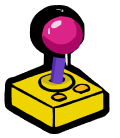
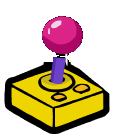
Make joystick static and remove black shadow overlay

Changed region(s): [[0.225, 0.029, 0.725, 0.4638], [0.5, 0.3768, 0.6, 0.4638], [0.625, 0.3478, 0.65, 0.3768]]

diff --git a/apps/web/app/components/AboutUs/Arcadeaccessories.tsx b/apps/web/app/components/AboutUs/Arcadeaccessories.tsx
@@ -1,6 +1,3 @@
-"use client";
-
-import { useRef, useState } from "react";
 import Image from "next/image";
 import styles from "./AboutSection.module.css";
 
@@ -9,33 +6,6 @@ const CASSETTE_SRC = "/about/cassette-bar.png";
 const WIRE_SRC = "/about/wire.png";
 
 export default function ArcadeAccessories() {
-    const joystickRef = useRef<HTMLDivElement>(null);
-    const [joystickTilt, setJoystickTilt] = useState({ rotateZ: 0, rotateX: 0 });
-
-    function handleJoystickMove(e: React.MouseEvent<HTMLDivElement>) {
-        const el = joystickRef.current;
-        if (!el) return;
-
-        const rect = el.getBoundingClientRect();
-        const cx = rect.left + rect.width / 2;
-        const cy = rect.top + rect.height * 0.35;
-
-        const dx = e.clientX - cx;
-        const dy = e.clientY - cy;
-
-        const clampedDx = Math.max(-1, Math.min(1, dx / (rect.width / 2)));
-        const clampedDy = Math.max(-1, Math.min(1, dy / (rect.height / 2)));
-
-        setJoystickTilt({
-            rotateZ: clampedDx * 12,
-            rotateX: -clampedDy * 8,
-        });
-    }
-
-    function handleJoystickLeave() {
-        setJoystickTilt({ rotateZ: 0, rotateX: 0 });
-    }
-
     return (
         <>
             <div className={styles.cassetteWrap}>
@@ -46,21 +16,8 @@ export default function ArcadeAccessories() {
                 <Image src={WIRE_SRC} alt="" fill className={styles.fitImg} unoptimized />
             </div>
 
-            <div
-                ref={joystickRef}
-                className={styles.joystickWrap}
-                onMouseMove={handleJoystickMove}
-                onMouseLeave={handleJoystickLeave}
-            >
-                <div
-                    className={styles.joystickTiltInner}
-                    style={{
-                        transform: `perspective(600px) rotateX(${joystickTilt.rotateX}deg) rotateZ(${joystickTilt.rotateZ}deg)`,
-                        transformOrigin: "50% 88%",
-                    }}
-                >
-                    <Image src={JOYSTICK_SRC} alt="" fill className={styles.fitImg} />
-                </div>
+            <div className={styles.joystickWrap}>
+                <Image src={JOYSTICK_SRC} alt="" fill className={styles.fitImg} />
             </div>
         </>
     );

diff --git a/apps/web/app/components/AboutUs/AboutSection.module.css b/apps/web/app/components/AboutUs/AboutSection.module.css
@@ -236,7 +236,7 @@
     top: 72.2%;
     width: 22%;
     height: 6.8%;
-    z-index: 4;
+    z-index: 5;
 }
 
 .wireWrap {
@@ -256,13 +256,6 @@
     width: 9%;
     height: 15%;
     z-index: 4;
-}
-
-.joystickTiltInner {
-    position: absolute;
-    inset: 0;
-    transition: transform 0.35s cubic-bezier(0.22, 1, 0.36, 1);
-    transform-origin: 50% 88%;
 }
 
 .pacmanOverlay {
@@ -335,15 +328,10 @@
 }
 
 @media (prefers-reduced-motion: reduce) {
-
     .pacmanItem,
     .ghostItem,
     .arcadeDot {
         animation: none !important;
-        transition: none !important;
-    }
-
-    .joystickTiltInner {
         transition: none !important;
     }
 }
